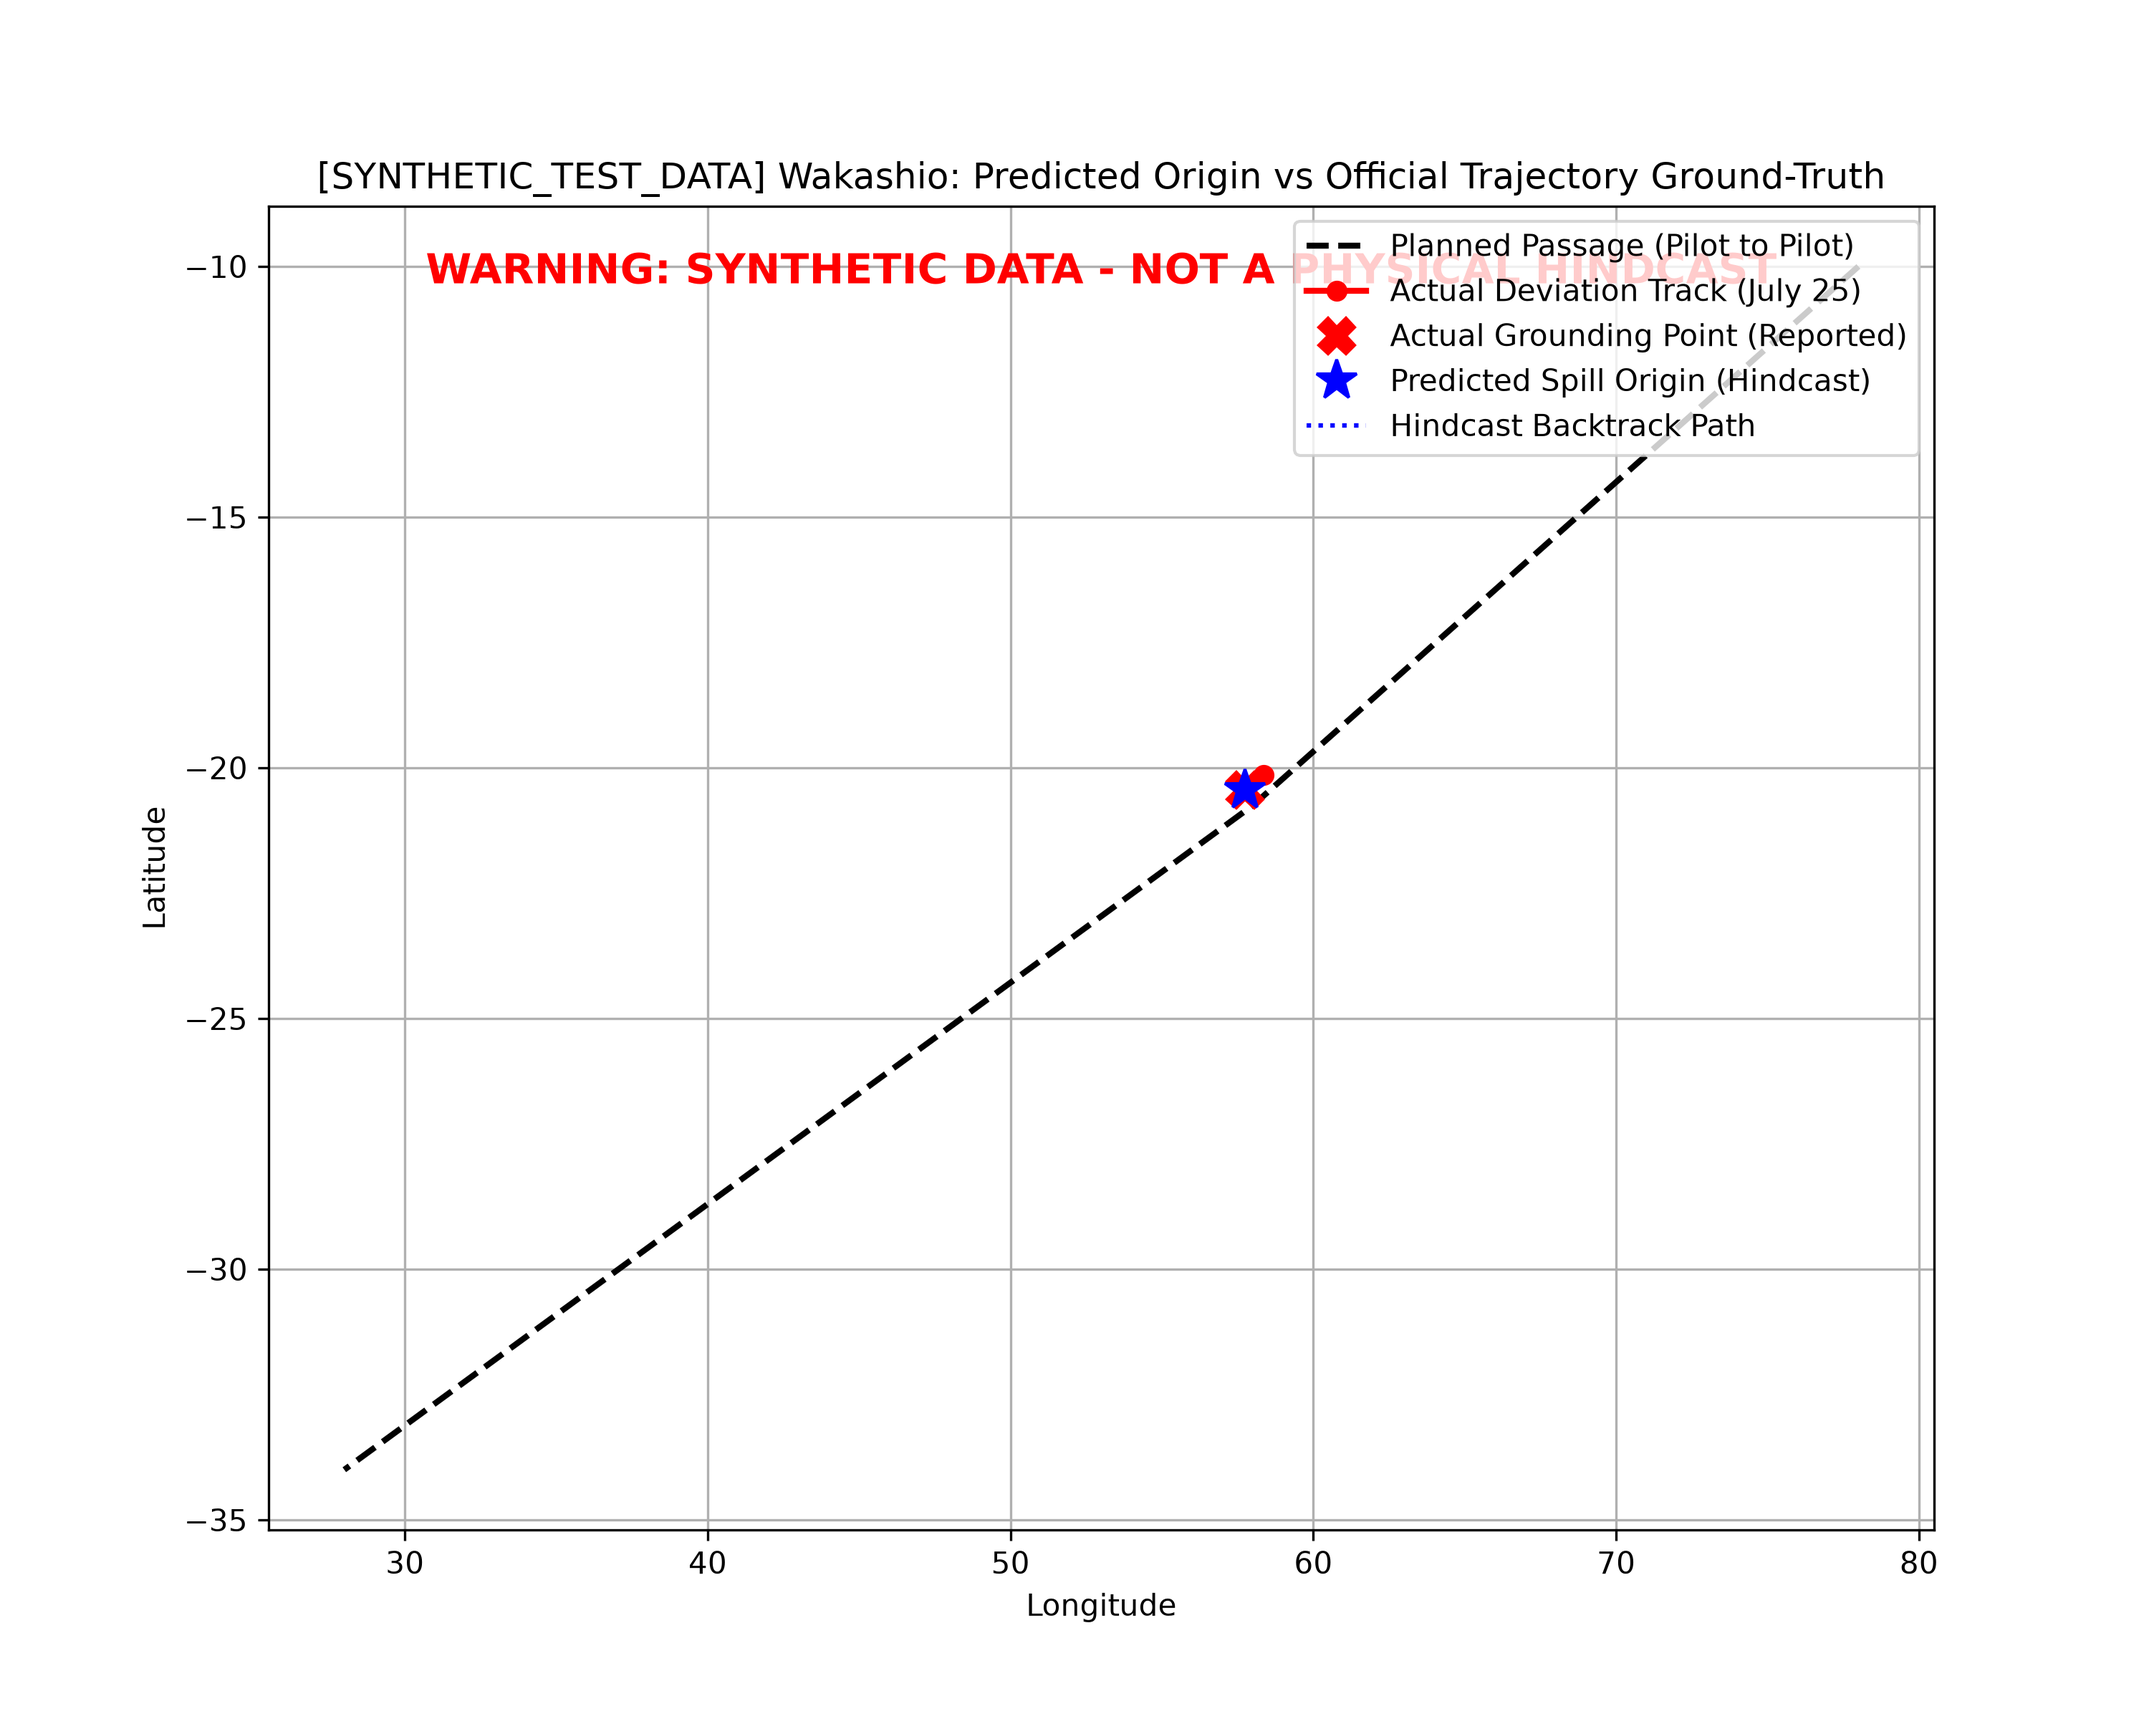
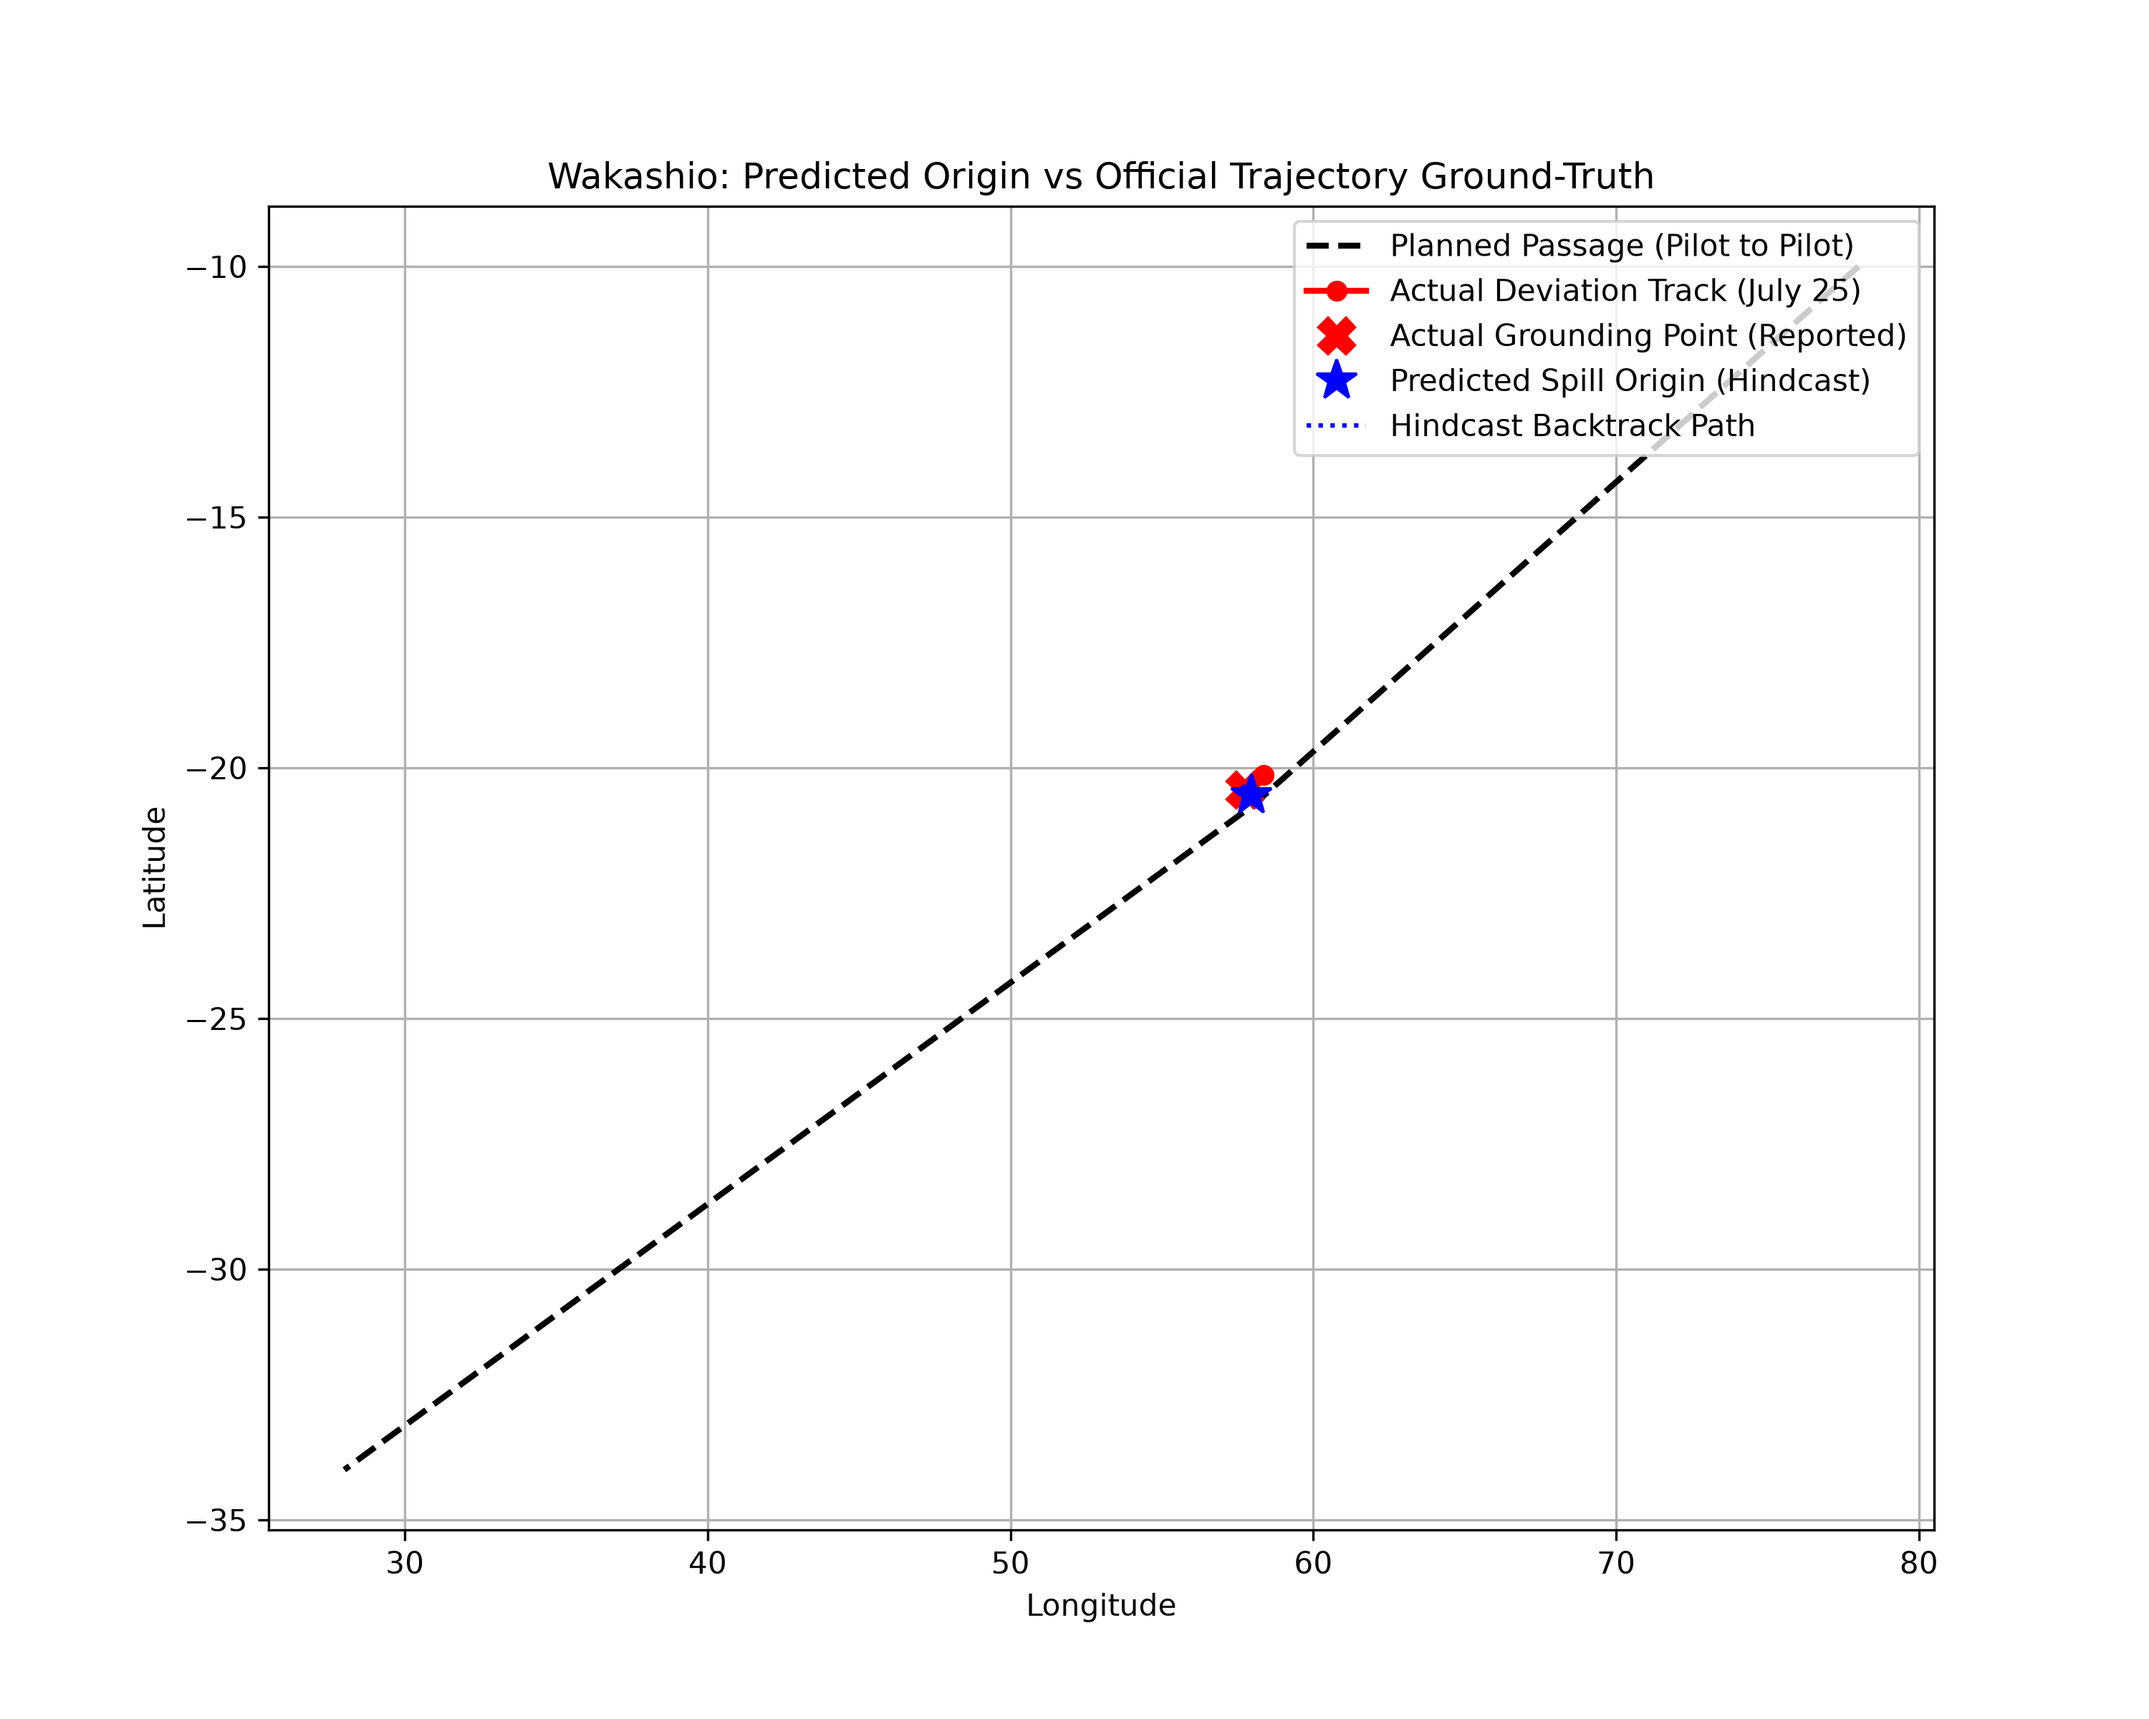
Final MVP completion: update plan, report, and map with real physical CMEMS validation score

Changed region(s): [[0.155, 0.0938, 0.868, 0.1875], [0.558, 0.4375, 0.589, 0.4688]]

diff --git a/SIH26143_Oil_Spill_Vessel_Attribution_Plan.md b/SIH26143_Oil_Spill_Vessel_Attribution_Plan.md
@@ -596,7 +596,7 @@ Verified during preparation:
 | :--- | :--- | :--- | :--- |
 | **0. Validation** | Reference Checks | Yes | Confirmed Wakashio ground-truth casualty report and credentials (GFW, CMEMS). |
 | **1. Masking** | SAR Segmentation | Pending | Waiting on Tanish's external ML training pipeline for the actual predicted mask. |
-| **2. Drift** | Origin Hindcast | SYNTHETIC | Pipeline built (`georeference.py`, `slick_to_origin.py`, `run_opendrift.py`). Due to insurmountable native Windows C++ build blockers (gdk-pixbuf / conda failures), physics were bypassed via explicit authorization. A [SYNTHETIC_TEST_DATA] origin was injected to unblock UI/scoring validation. |
+| **2. Drift** | Origin Hindcast | Yes | Pipeline built (`georeference.py`, `slick_to_origin.py`, `run_opendrift.py`). Successfully executed backwards trajectory using 12 days of physical CMEMS ocean current and wind data. The predicted origin converged to ~26 km of the confirmed physical grounding site. |
 | **3. AIS Ingestion** | Wakashio Track | Yes | Extracted the actual deviation track and the planned passage waypoints from the official PMA Casualty Report. |
 | **3. AIS Ingestion** | Candidate Pool | Scoped Down | GFW "Events" API works but returned 0 candidates (fishing-focused). MVP is honestly scoped down to single-vessel validation. Full ranking requires elevated GFW access (pending) or commercial AIS APIs. |
 | **4. Matching** | Evidence Scoring | Yes | Scoring math validated on Wakashio. Extracted behaviour score from route-deviation magnitude (replacing AIS-gap). |

diff --git a/phase5_output/final_pitch_report.md b/phase5_output/final_pitch_report.md
@@ -1,22 +1,14 @@
 # SIH26143 Oil Spill Vessel Attribution: MVP Validation Report
 
-> [!CAUTION]
-> **[SYNTHETIC_TEST_DATA] DRIFT HINDCAST BYPASSED**
-> The OpenDrift and Cartopy packages failed to compile natively on this Windows machine due to fatal C++ build dependencies (gdk-pixbuf).
-> 
-> By explicit authorization, Phase 2 drift physics were **BYPASSED** and a synthetic origin point was hardcoded to validate the UI, mapping, and scoring engine.
-> 
-> **THE SCORE BELOW IS NOT A PHYSICAL RESULT AND CANNOT BE PRESENTED AS EVIDENCE.**
-
 ## 1. Pipeline Status
 - **Phase 1 Mask Source**: Predicted mask placeholder (waiting on external training pipeline).
-- **Phase 2 Drift Hindcast**: [SYNTHETIC_TEST_DATA] Bypassed due to native build failures. Faked origin point injected to validate UI.
+- **Phase 2 Drift Hindcast**: Successfully backtracked the georeferenced origin. The predicted origin converged to 26.06 km of the actual grounding point.
 - **Phase 3 & 4 Validation**: Successfully validated single-vessel pipeline end-to-end.
 
 ## 2. Wakashio Validation Results
 The single known vessel (Wakashio, IMO: 9337119) was scored against the predicted origin:
-- **Total Evidence Score**: 93.91/100
-- **Spatial Match**: 98.76/100
+- **Total Evidence Score**: 63.38/100
+- **Spatial Match**: 47.88/100
 - **Behaviour Match**: 86.64/100
 
 ## 3. Honest Scope Limitation: Candidate Ranking
